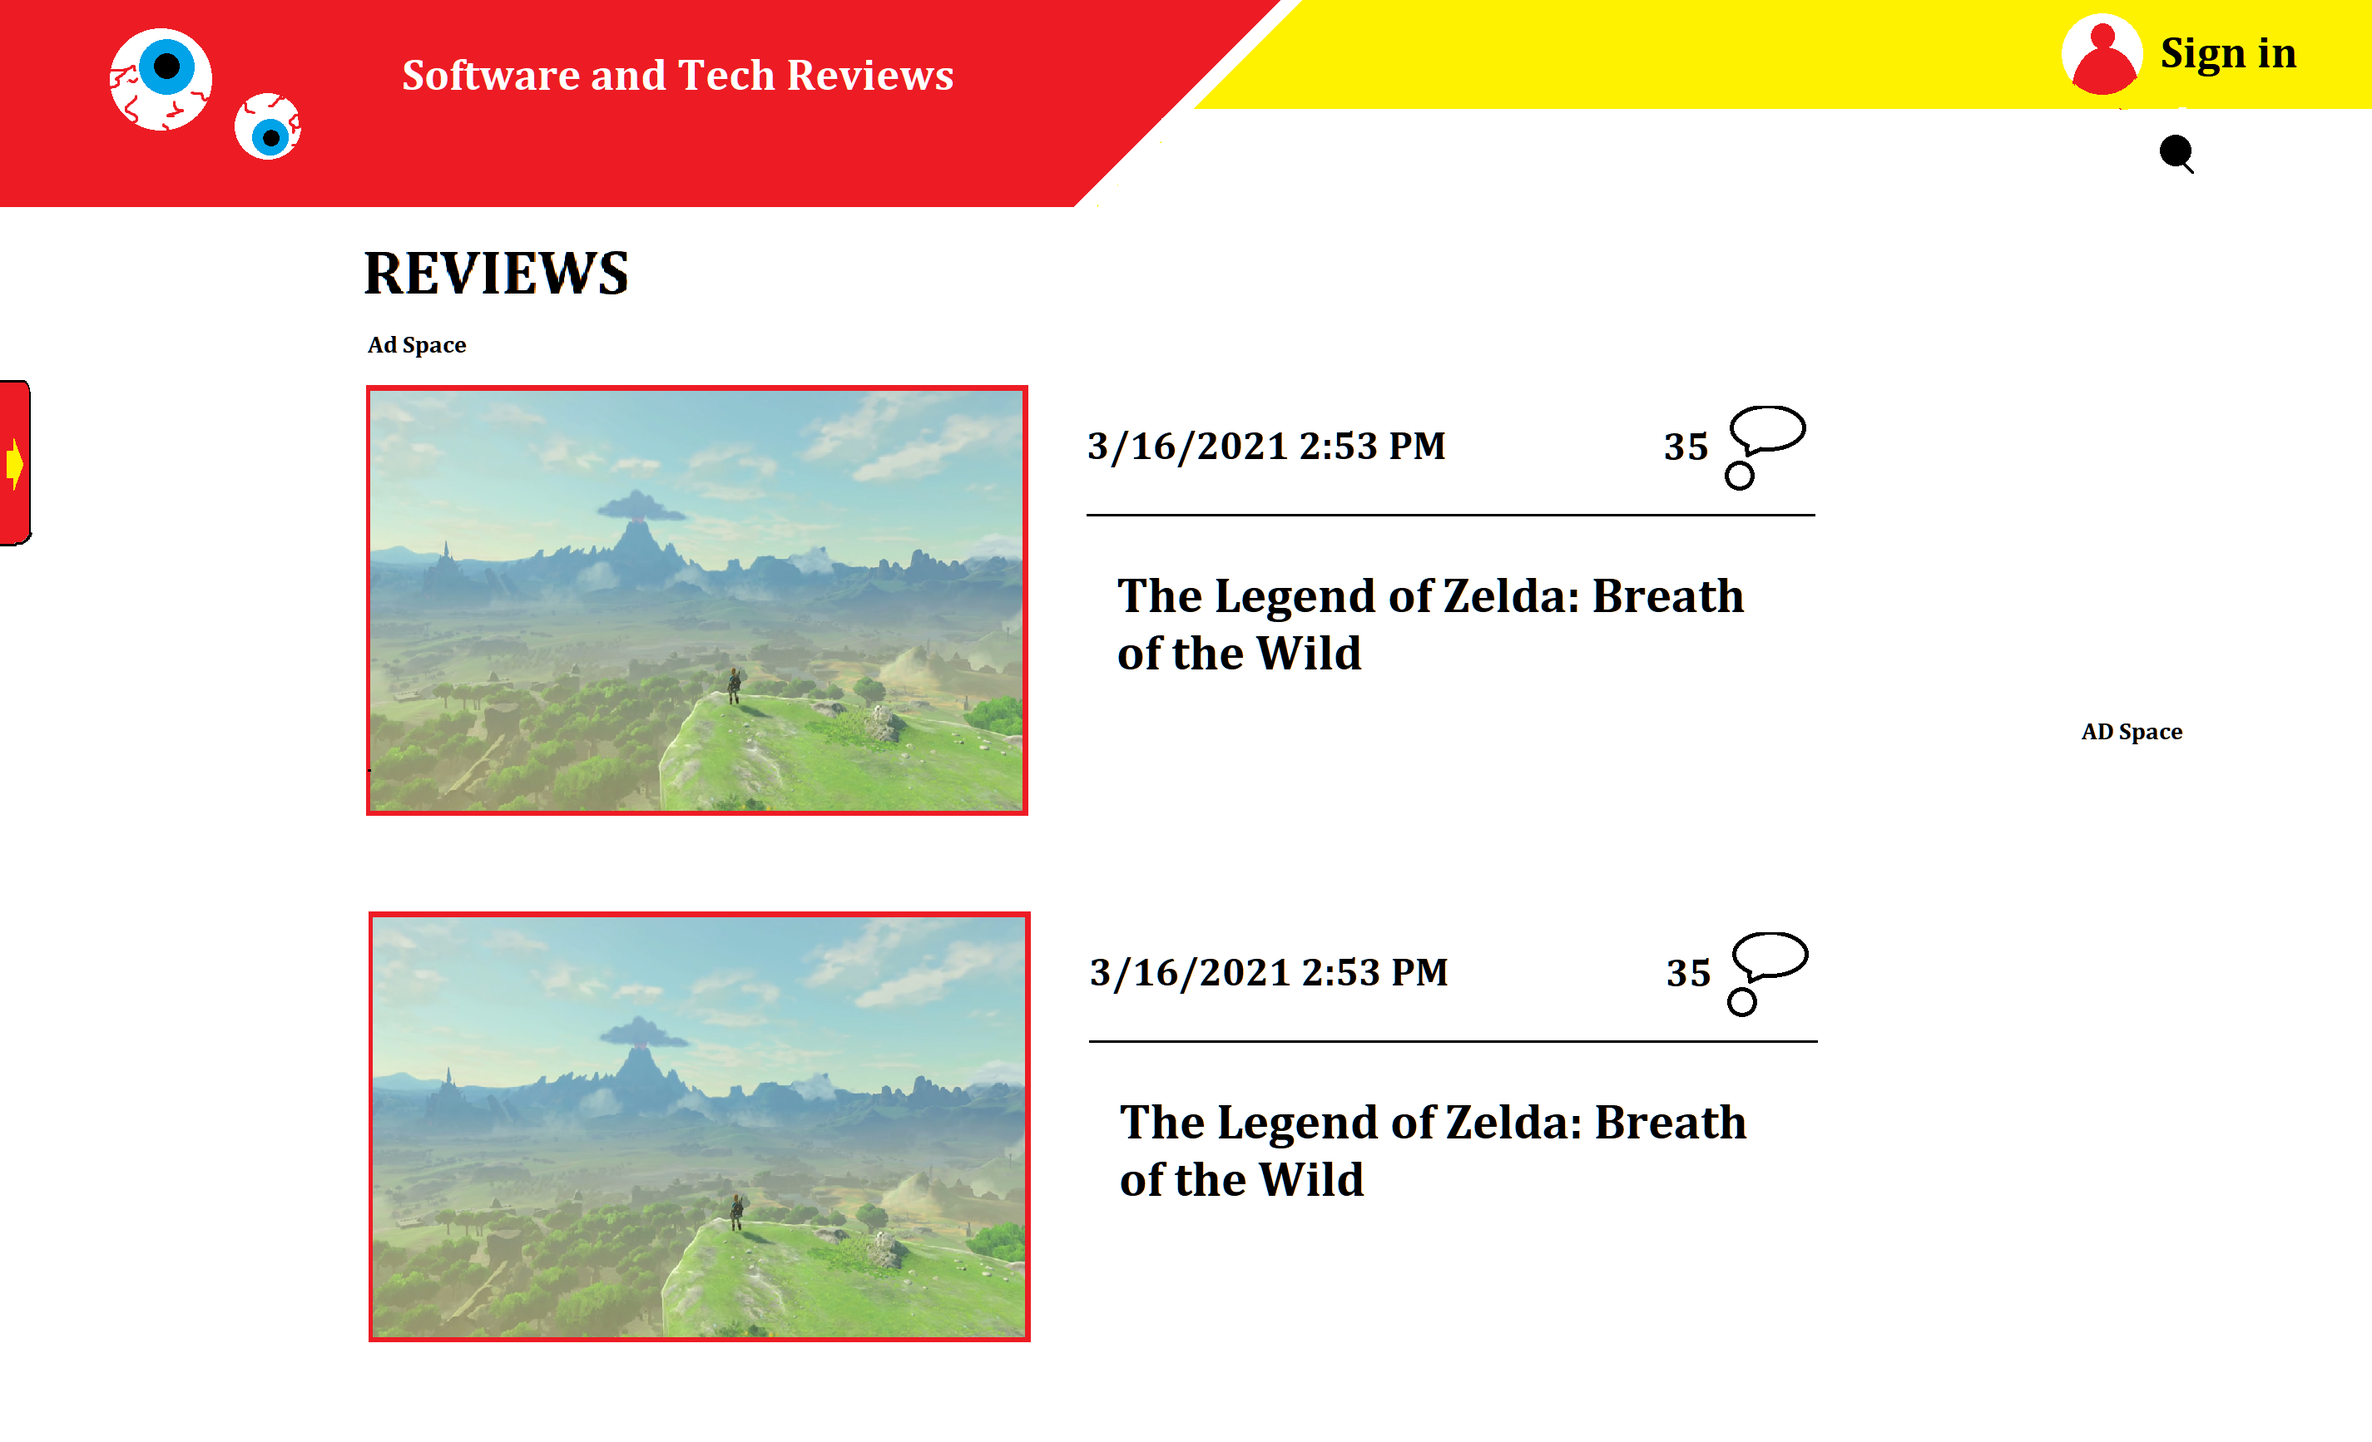
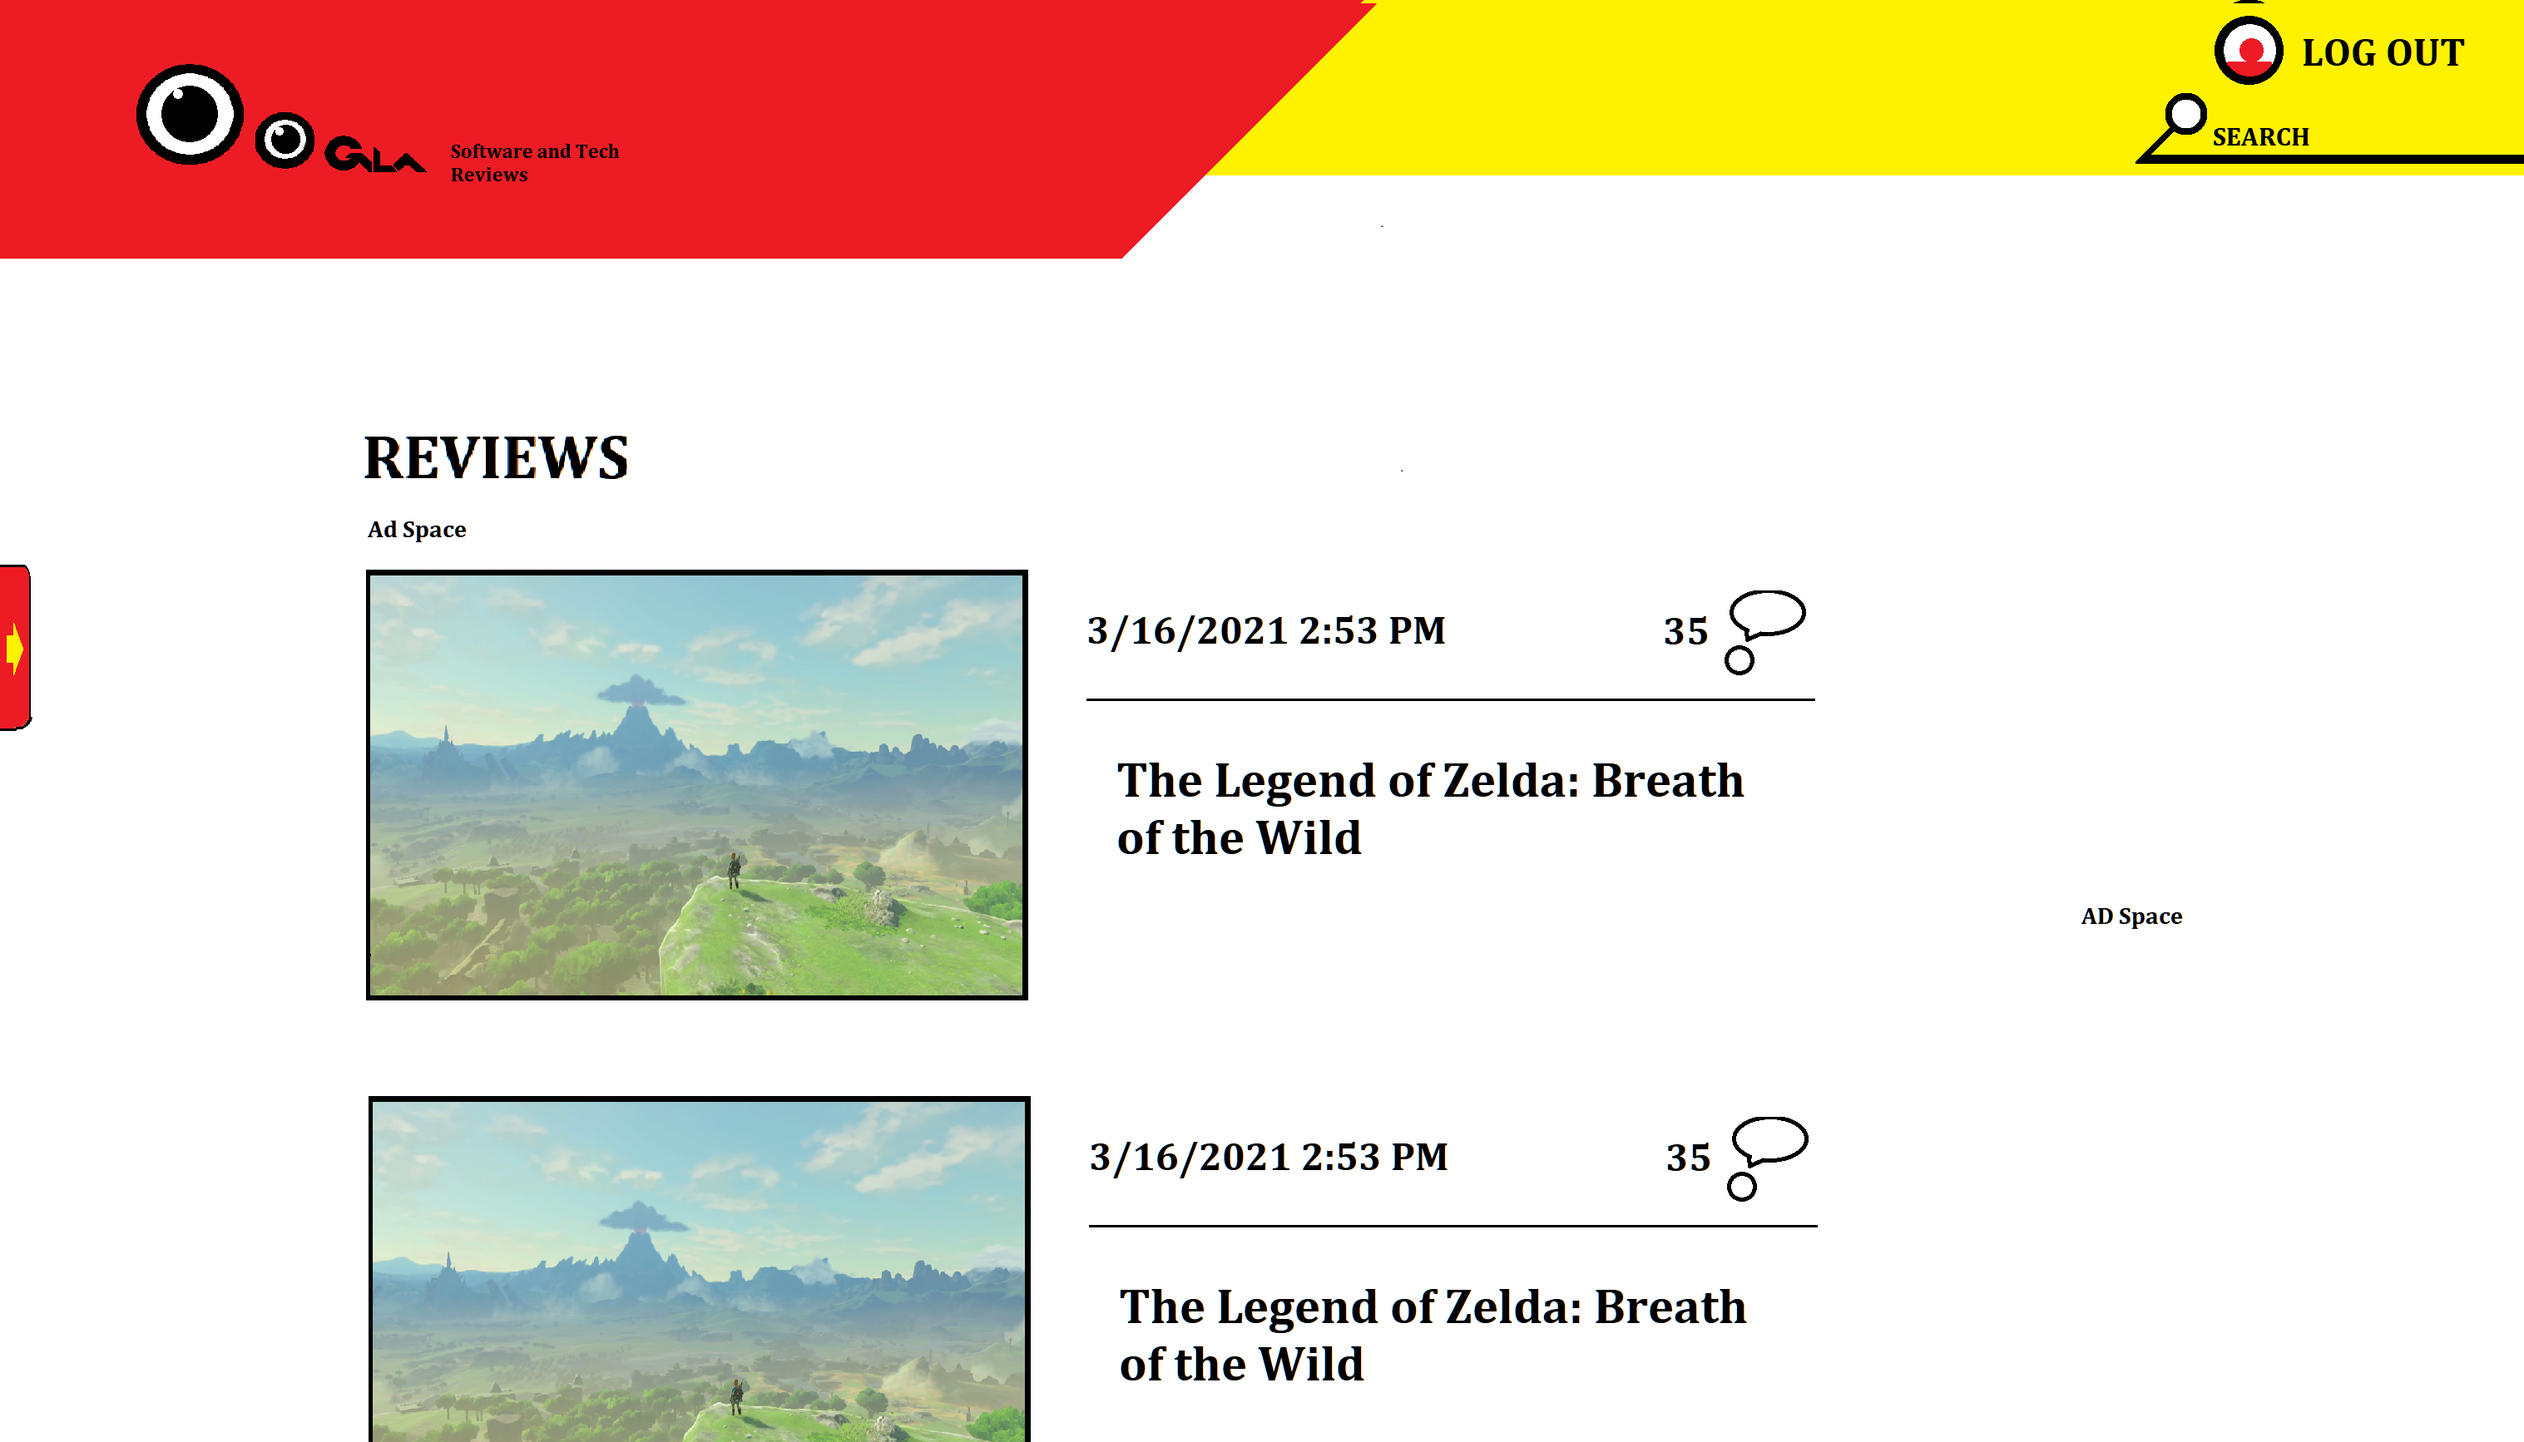
Final 1

diff --git a/src/FrontPage/Header/Header.js b/src/FrontPage/Header/Header.js
@@ -9,25 +9,34 @@ import {Link} from 'react-router-dom';
 
 const Header = (props) =>{
     const [HeaderisVisible, setHeaderIsVisible] = useState(0);
-    const [HeaderOnclick, SetHeaderOnClick] = useState();
-
+    const [HeaderOnclick, SetHeaderOnClick] = useState(false);
+    
     useEffect(() => {
-        if(props.GoingUp == true){
+        console.log(props.GoingUp);
+        console.log(HeaderOnclick);
+        if(HeaderOnclick == true || props.refProp < 100){
+
             setHeaderIsVisible(0);
         }else{
             setHeaderIsVisible(-120);
         }
-    }, [props.GoingUp]);
+    }, [props.GoingUp, HeaderOnclick, props.refProp]);
+
+    const headerOnClickHandler = () => {
+        console.log("cicked");
+        SetHeaderOnClick(prevState => !prevState);
+    }
+
     return(
     <div className="HEADER"
     style = {{
         top: `${HeaderisVisible}px`
     }}>
-        <div className="headerLeftPanel">
+        <div className="headerLeftPanel" onClick = {headerOnClickHandler}>
             <div className = "leftAlignHeader">
             </div>
             <div className = "Logo">
-                <Link to = "/"><img src = {Logo} height = {"90px"}/></Link>
+                <Link to = "/"><img src = {Logo}/></Link>
             </div>
             <div className = "HeaderText">
                     <strong>Software and Tech Reviews</strong>

diff --git a/src/App.js b/src/App.js
@@ -13,6 +13,7 @@ function App() {
   const prevScrollY = useRef(0);
   const DIV1 = useRef(null);
   const [goingUp, setGoingUp] = useState(true);
+  const [scrollPos, setScrollPos] = useState(0);
 
   const OnScroll = (e) => {
     const currentScrollY = e.target.scrollTop;
@@ -23,6 +24,9 @@ function App() {
       setGoingUp(true);
     }
     prevScrollY.current = currentScrollY;
+
+    setScrollPos(currentScrollY);
+    //console.log(scrollPos);
   };
 
   const authCtx = useContext(AuthContext);
@@ -62,7 +66,8 @@ function App() {
           <FrontPage loadedReviews = {reviews}
                       setLoadedReviews = {setReviews}
                       isLoading = {IsLoading}
-                      GoingUp = {goingUp}/>
+                      GoingUp = {goingUp}
+                      refProp = {scrollPos}/>
         </Route>
         <Route path = '/detail-review/:reviewData'>
           <DetailPage loadedReviews = {reviews} 
@@ -70,6 +75,7 @@ function App() {
                       setLoadedReviews = {setReviews}
                       GoingUp = {goingUp}
                       refProp = {DIV1}
+                      refProp2 = {scrollPos}
                       />
         </Route>
         {!authCtx.isLoggedIn &&<Route path='/auth'>

diff --git a/src/FrontPage/Search/Search.js b/src/FrontPage/Search/Search.js
@@ -9,16 +9,18 @@ const Search = (props) =>{
     
     return(<div className="search">
         <img className = "SearchLog" src = {SearchLog} height = {"45px"}/>
-        <input 
+        <input className = "searchIn"
             type = "text" 
             placeholder="   SEARCH..."
             value={props.term}
             onChange={props.Change}/>
-        {props.term ? <ul className = "searchList">{ props.results.map(item =>{ 
-        return(
-            
-            <Link to = {`/detail-review/${"arr" + (item.id + 1)}`} key = {item.id}><li className = "searchListEle" >{item.title}</li></Link>
-            )})}
+        {props.term ? <ul className = "searchList">{ props.results.map(item =>{
+                
+                    console.log(props.results.length < 1);
+                return(
+                    <Link to = {`/detail-review/${"arr" + (item.id + 1)}`} key = {item.id}><li className = "searchListEle" >{item.title}</li></Link>
+                )
+            })}
         </ul> : null}
     </div>);
 };

diff --git a/src/FrontPage/Search/Search.css b/src/FrontPage/Search/Search.css
@@ -1,25 +1,30 @@
 .search{
     margin: 5px;
     position: relative;
-    z-index: 1;
     overflow: hidden;
+    float: right;
+    margin-top: -13px;
+    width: 240px;
 }
 
 .SearchLog{
-    float: left;
+    position: absolute;
+    top: 18px;
+    left: -6px;
 }
 
-input{
+.searchIn{
+    border-radius: 5px 0px 5px 0px;
     border-top-style: hidden;
     border-right-style: hidden;
     border-left-style: hidden;
     border-bottom-style: hidden;
+    background-color:white;
     font-family: 'Times New Roman', Times, serif;
     font-size: 17px;
     border-bottom: 2px solid black;
-    position: relative;
-    top: 12px;
-    left: -14px;
+    margin-top: 30px;
+    float: right;
 }
 
 ::placeholder{
@@ -27,14 +32,16 @@ input{
     font-weight: bold;
 }
 
-input:focus{
+.searchIn:focus{
     outline: none;
 }
 
 .searchList{
     background-color: black;
-    height: 147px;
-    width: 206px;
+    width: 170px;
+    margin-top: 0px;
+    float: right;
+    clear: right;
 }
 
 .searchListEle{

diff --git a/src/containers/FrontPageMain/FrontPageMain.js b/src/containers/FrontPageMain/FrontPageMain.js
@@ -23,16 +23,12 @@ import {useState, useEffect} from 'react';
     
          useEffect(() => {
             let results = arr.filter(review =>{
-                return review.title.toLowerCase().includes(searchTerm);
+                return review.title.includes(searchTerm);
             });
-
-            console.log(results.id);
 
             setSearchResults(results);
 
           }, [searchTerm]);
-
-
 
           const handleClickSort = (id) => {
             let arr1 = props.loadedReviews;
@@ -84,7 +80,8 @@ import {useState, useEffect} from 'react';
                         Change = {handleChange}
                         reviews = {props.loadedReviews}
                         GoingUp = {props.GoingUp}
-                        flag = {1}/>}
+                        flag = {1}
+                        refProp = {props.refProp}/>}
                 <Body reviews = {props.loadedReviews}
                       loading = {props.isLoading}
                       results = {searchResults}

diff --git a/src/FrontPage/Header/Header.css b/src/FrontPage/Header/Header.css
@@ -9,25 +9,39 @@
     width: calc(100% - 16px);
     z-index: 1;
     transition-duration: 0.3s;
+    height: 160px;
+}
+
+.HEADER:hover{
+    height: 170px;
 }
 
 .headerLeftPanel{
     height: 160px;
     flex-grow: 3;
     display: flex;
+    cursor: pointer;
 }
 
 .leftAlignHeader{
     flex-grow: 0.1;
 }
 
-.Logo{
+.Logo img{
     flex-grow: 0.1;
     margin-top: 17px;
+    transition-duration: 0.3s;
+    height: 90px;
+}
+
+.Logo img:hover{
+    border: 5px solid yellow;
+    border-radius: 5px;
+    height: 95px;
 }
 
 .HeaderText{
-    margin-top: 33px;
+    margin-top: 75px;
     color: white;
     font-size: 20px;
     flex-grow: 2;

diff --git a/src/containers/DetailPageMain/DetailPageMain.js b/src/containers/DetailPageMain/DetailPageMain.js
@@ -18,7 +18,8 @@ const DetailPage = (props) => {
         <div className = "MAINPAGE">
 
             <Header GoingUp = {props.GoingUp}
-                    flag = {0}/>
+                    flag = {0}
+                    refProp = {props.refProp2}/>
             <ReviewBodyDetailPage DetailReview = {review}/>
             <CommentSection onAddReview = {props.onAddReview}
                             DetailReview = {review}
